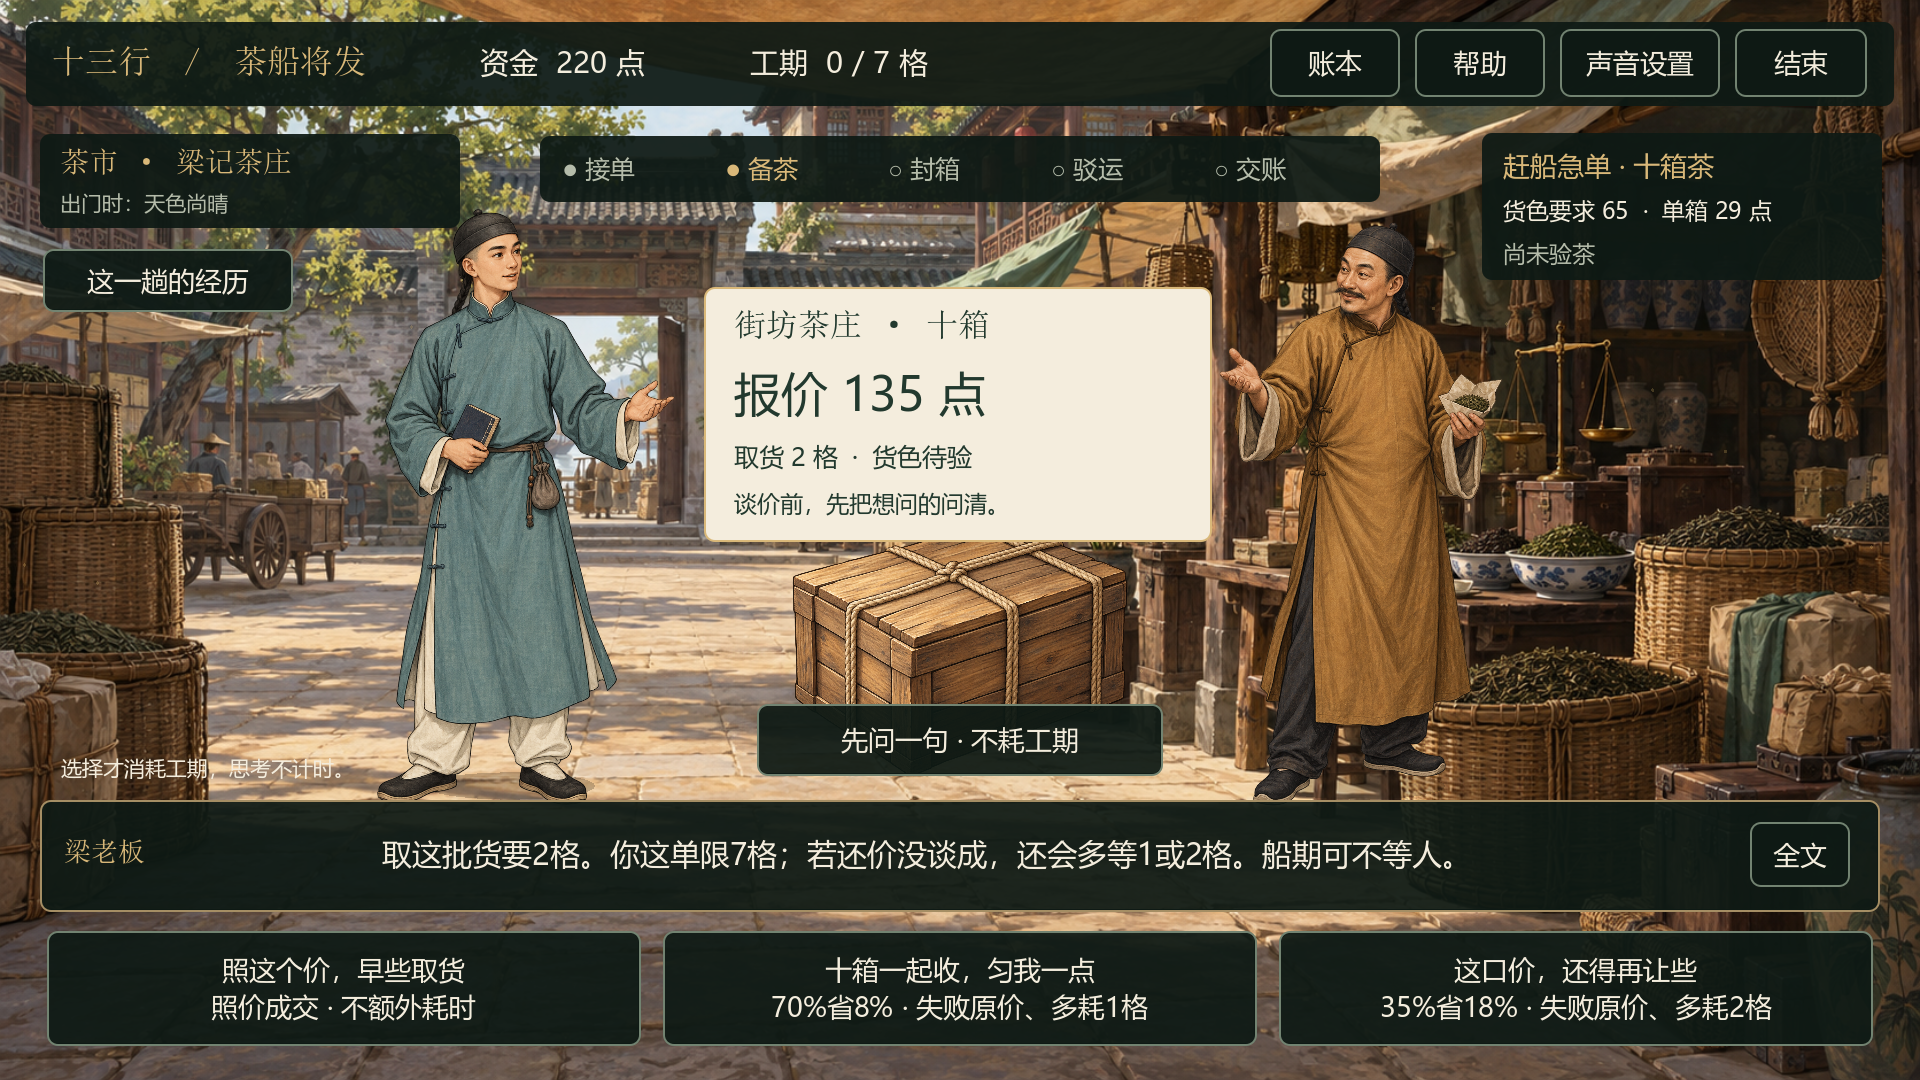
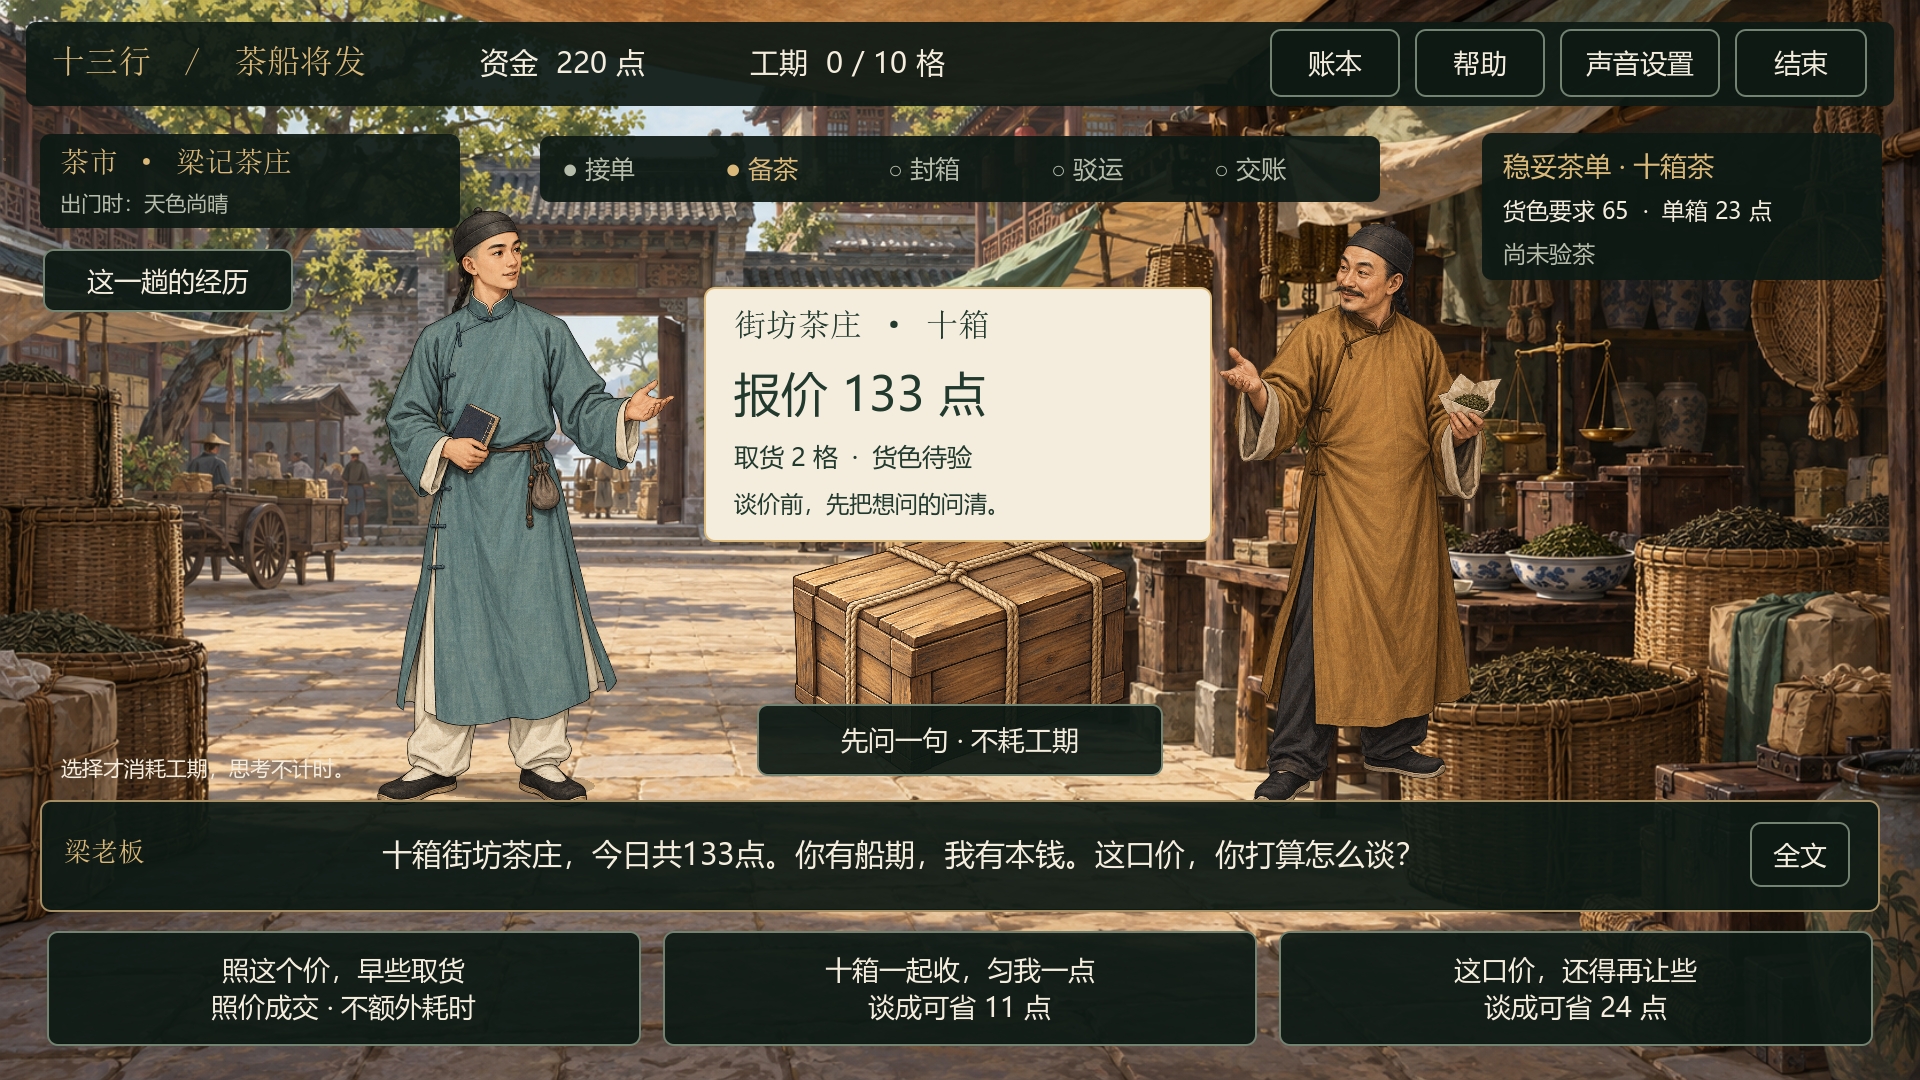
Show bargaining savings in points instead of percentages

diff --git a/docs/v0.6茶市议价深化.md b/docs/v0.6茶市议价深化.md
@@ -13,9 +13,11 @@
 
 每个话题本局只能问一次；已问话题禁用，始终可以返回议价。问话与阅读不收费、不消耗工期。成交后的交割增加两次继续操作；动作不要求抢点或比手速。
 
-![主角向梁老板询问船期](images/market-bargain.png)
+![议价选项显示谈成后可省的点数](images/market-bargain.png)
 
 ## 五种结果怎样发生
+
+议价选项只显示按当前报价计算的「谈成可省 X 点」。例如报价133点时，两种议价分别显示可省11点、24点；金额取整与实际成交一致。界面不显示成功概率及折扣百分比，下表保留内部规则说明。
 
 | 选择 | 真实规则 | 人物回应与后续影响 |
 |---|---|---|
@@ -37,7 +39,7 @@
 
 ![阿宁接过成交货单](images/market-receipt-female.png)
 
-以上为Godot实际渲染画面。QA使用固定随机种子覆盖成功与失败；普通启动仍随机。后续验茶截图另有明确的72／86低货色情境，用于验证补救对白。
+以上为Godot实际渲染画面。QA使用固定随机种子覆盖成功与失败；报价133点的画面复现用户反馈案例，普通启动仍随机。后续验茶截图另有明确的72／86低货色情境，用于验证补救对白。
 
 ## 后续反馈与信息边界
 

diff --git a/README.md b/README.md
@@ -11,7 +11,7 @@
 ## v0.6 茶市议价深化
 
 - 选定货源后，可以先问梁老板货源、船期和货色；问话可跳过，不消耗资金与工期。
-- 用主角的口吻选择照价收货、温和还价或坚持压价，成功率和失败代价直接显示。
+- 用主角的口吻选择照价收货、温和还价或坚持压价，选项按当前报价显示「谈成可省多少点」。
 - 成交后留在茶市，观看付款、递单与人物回应，再接过货单前往验茶台。
 - 五种成交回应对应真实结果；货单显示实付、让利和等待。验茶、码头与结尾会回扣这次选择。
 - 阿砚、阿宁共用全部分支；保留随机货色、真实盈亏、复焙补救和资金应急。
